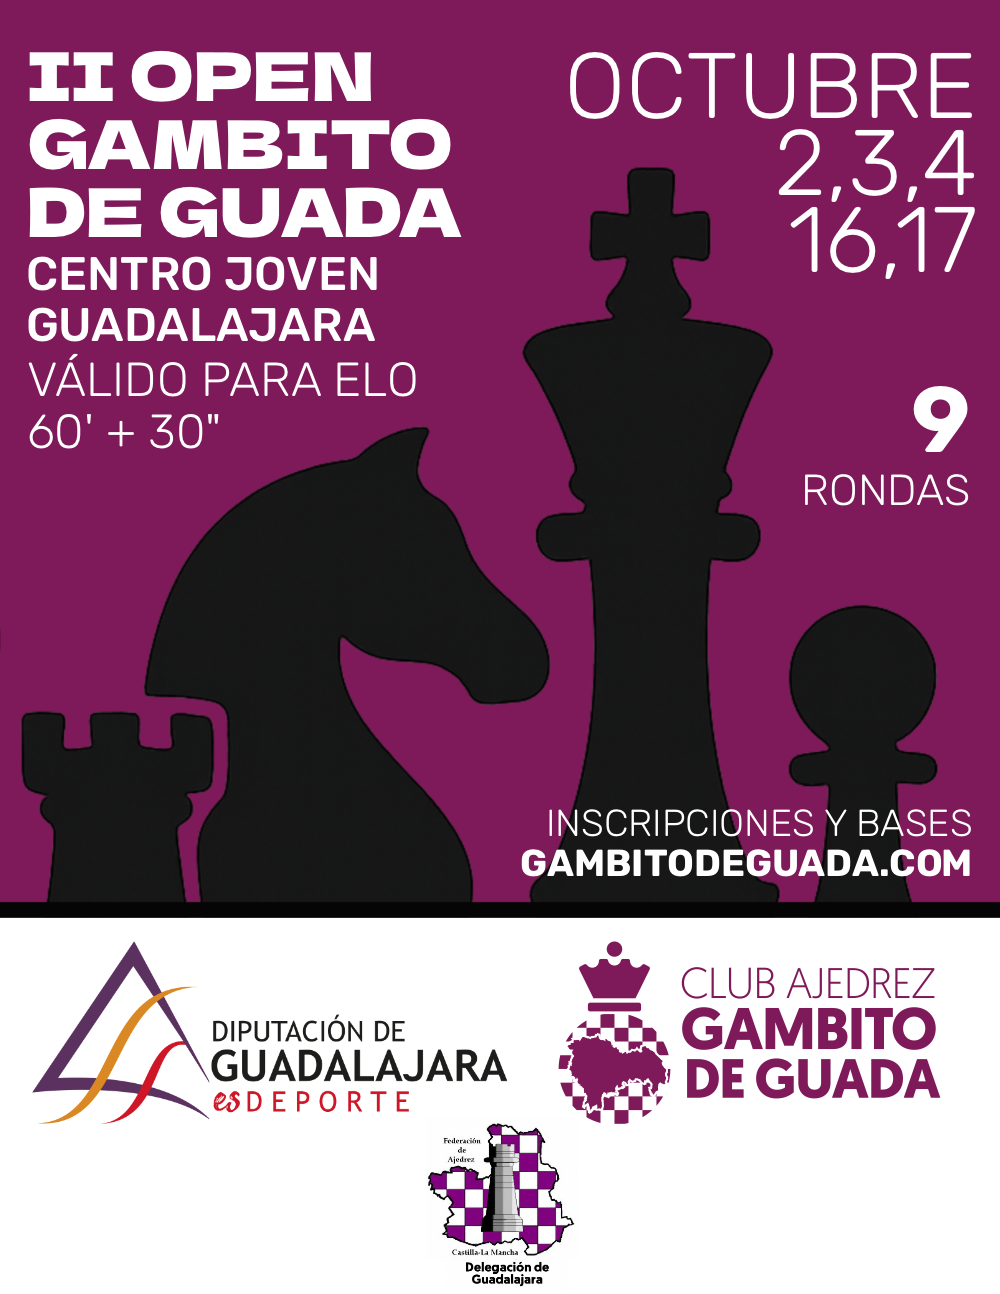
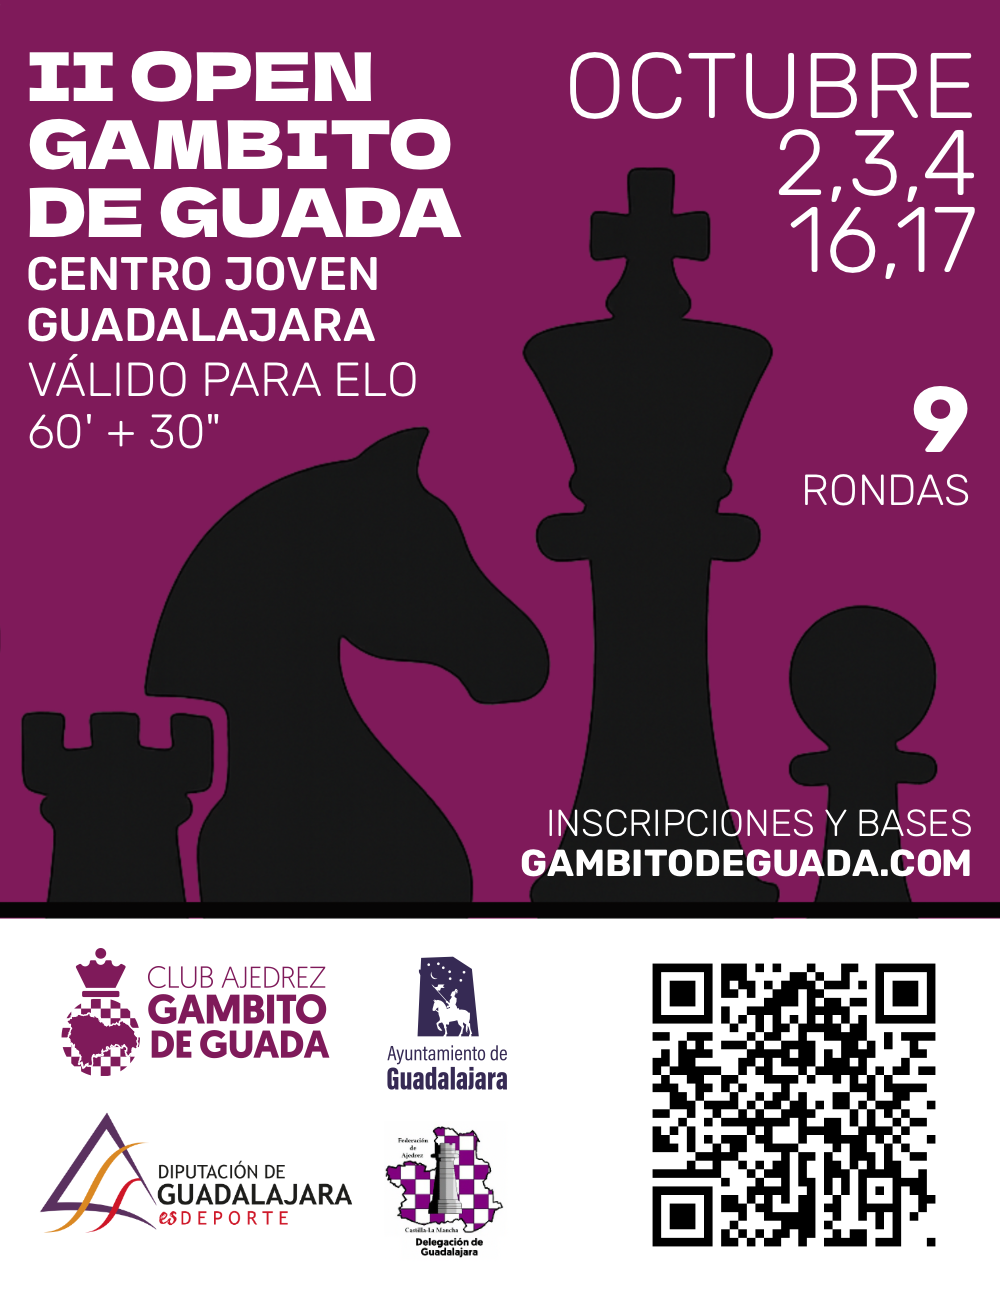
Add Ayuntamiento collaborator to II Open page

Changed region(s): [[0.031, 0.711, 0.589, 1.0], [0.558, 0.711, 0.961, 0.9892]]

diff --git a/torneos/ii-open-gambito-de-guada.md b/torneos/ii-open-gambito-de-guada.md
@@ -64,7 +64,8 @@ Torneo Suizo válido para ELO FIDE, en la modalidad de ajedrez estándar.
 
 Este campeonato está organizado por el [Club Ajedrez Gambito de Guada](https://gambitodeguada.com/).
 
-Colaboran: [Diputación de Guadalajara](https://dguadalajara.es/) y [Delegación de Ajedrez de Guadalajara](https://ajedrezguadalajara.com/)
+
+Colaboran: [Diputación de Guadalajara](https://dguadalajara.es/), [Ayuntamiento de Guadalajara](https://www.guadalajara.es/) y [Delegación de Ajedrez de Guadalajara](https://ajedrezguadalajara.com/)
 
 ### Lugar de Juego
 
